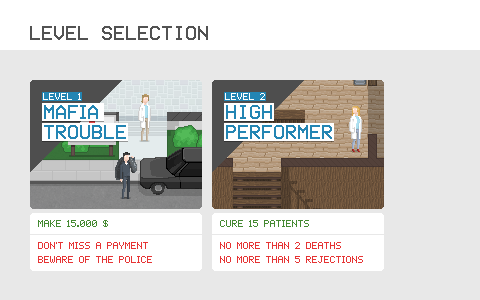
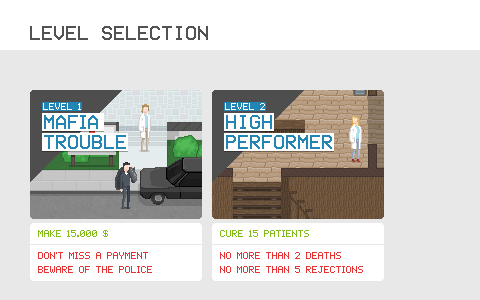
implements untested score system

Changed region(s): [[0.0625, 0.24, 0.8125, 0.93]]

diff --git a/src/stages/GameOverStage.js b/src/stages/GameOverStage.js
@@ -6,9 +6,9 @@ inherit(GameOverStage, Stage);
 
 GameOverStage.prototype.preload = function() {
   const endings = [
-    'modal_gameover_1', // 0: Mafia Ending
-    'modal_gameover_2', // 1: Police Ending
-    'modal_gameover_3', // 2: Money Ending
+    'gameover_1', // 0: Mafia Ending
+    'gameover_2', // 1: Police Ending
+    'gameover_3', // 2: Money Ending
   ];
 
   const backToMenuButtonFrames = {
@@ -29,19 +29,34 @@ GameOverStage.prototype.preload = function() {
     armedSpeed: 75
   }
 
+  this.scorePanelFrames = [1, 2, 3, 4, 5, 6, 7];
+  this.scorePanelFrame = 0;
+
+  this.scoreLabelFrames = [1, 1, 1, 2, 3, 4, 5, 6, 7, 8, 9, 10, 11, 12, 13];
+  this.scoreLabelFrame = 0;
+
   this.buttonImage = loader.loadAssetImage('gameover_buttons.png', 8, 2);
   this.hoverSound = loader.loadAssetAudio({src: 'sounds/key-clicking/key-clicking.mp3'});
   this.confirmSound = loader.loadAssetAudio({src: 'sounds/key-clicking/confirm.mp3'});
-  this.backgrounds = endings.map(ending => loader.loadAssetImage(ending + '.png'));
+  this.gameOverImages = endings.map(ending => loader.loadAssetImage(ending + '.png'));
+  this.modalBackground = loader.loadAssetImage('modal_gameover.png');
+  this.scorePanelImage = loader.loadAssetImage('scorepanel.png', 1, 8);
+  this.scoreLabelImage = loader.loadAssetImage('scorelabel.png', 1, 14);
   this.soundGameOver = loader.loadAssetAudio({src: 'sounds/outcomes/outcomes-gameover.mp3'});
   this.backToMenuButton = new Button(this.buttonImage, backToMenuButtonFrames, function() { stageManager.activeStage.transitionTo("levelSelect"); }, this.confirmSound, this.hoverSound);
   this.keepPlayingButton = new Button(this.buttonImage, keepPlayingButtonFrames, function() { stageManager.activeStage.transitionOut(800); }, this.confirmSound, this.hoverSound);
-
 }
 
 GameOverStage.prototype.prestart = function(payload) {
   this.gameOverNr = payload;
   this.soundGameOver.play();
+
+  // Set highscores
+  this.score = gameStage.calculateScore();
+  if (gameStage.isHighscore(gameStage.gameState.currentLevel.num, this.score)) {
+    this.isHighscore = true;
+    gameStage.writeHighScore(gameStage.gameState.currentLevel.num, this.score)
+  }
 }
 
 GameOverStage.prototype.render = function(ctx, timer) {
@@ -55,33 +70,44 @@ GameOverStage.prototype.render = function(ctx, timer) {
 
   // Image
   ctx.globalAlpha = 1;
-  const y = (h - this.backgrounds[this.gameOverNr].height) / 2 - ( (10 / p) - 10);
-  const x = (w - this.backgrounds[this.gameOverNr].width) / 2;
+  const y = (h - this.modalBackground.height) / 2 - ( (10 / p) - 10);
+  const x = (w - this.modalBackground.width) / 2;
 
   ctx.translate(x, y);
-  drawImageToScreen(ctx, this.backgrounds[this.gameOverNr], 0, 0, 0, 1, 1, 0, 0);
+  drawImageToScreen(ctx, this.modalBackground, 0, 0, 0, 1, 1, 0, 0);
+  drawImageToScreen(ctx, this.gameOverImages[this.gameOverNr], 5, 9, 0, 1, 1, 0, 0);
+
+  // Draw Score
+  if (this.isHighscore) {
+    this.scoreLabelFrame = getArrayFrame(timer.gameTime / 100, this.scoreLabelFrames);
+    this.scorePanelFrame = getArrayFrame(timer.gameTime / 150, this.scorePanelFrames);
+  }
+  drawFrame(ctx, this.scoreLabelImage, this.scoreLabelFrame, 19, 161, 0, 1, 1, 0, 0);
+  drawFrame(ctx, this.scorePanelImage, this.scorePanelFrame, 19, 174, 0, 1, 1, 0, 0);
+  bigFont.drawText(ctx, "" + this.score, 152, 182, "green", 1);
 
   // Draw Statistics
-  mainFont.drawText(ctx, gameStage.gameState.stats.patientCount, 135, 79, "darkgray", 1);
-  mainFont.drawText(ctx, gameStage.gameState.stats.patientsAccepted, 135, 90, "darkgray", 1);
-  mainFont.drawText(ctx, gameStage.gameState.stats.patientsRejected, 135, 101, "darkgray", 1);
-  mainFont.drawText(ctx, gameStage.gameState.stats.patientsDied, 135, 112, "darkgray", 1);
-  mainFont.drawText(ctx, gameStage.gameState.stats.patientsCured, 135, 123, "darkgray", 1);
+  mainFont.drawText(ctx, gameStage.gameState.stats.playTime, 135, 79, "darkgray", 1);
+  mainFont.drawText(ctx, gameStage.gameState.stats.patientCount, 135, 90, "green", 1);
+  mainFont.drawText(ctx, gameStage.gameState.stats.patientsAccepted, 135, 101, "green", 1);
+  mainFont.drawText(ctx, gameStage.gameState.stats.patientsRejected, 135, 112, "red", 1);
+  mainFont.drawText(ctx, gameStage.gameState.stats.patientsDied, 135, 123, "red", 1);
+  mainFont.drawText(ctx, gameStage.gameState.stats.patientsCured, 135, 134, "green", 1);
 
   mainFont.drawText(ctx, gameStage.gameState.stats.treatments, 310, 79, "darkgray", 1);
-  mainFont.drawText(ctx, gameStage.gameState.stats.treatmentsFailed, 310, 90, "darkgray", 1);
-  mainFont.drawText(ctx, gameStage.gameState.stats.treatmentsSucceeded, 310, 101, "darkgray", 1);
+  mainFont.drawText(ctx, gameStage.gameState.stats.treatmentsFailed, 310, 90, "red", 1);
+  mainFont.drawText(ctx, gameStage.gameState.stats.treatmentsSucceeded, 310, 101, "green", 1);
 
-  mainFont.drawText(ctx, gameStage.gameState.stats.diagnoses, 310, 121, "darkgray", 1);
-  mainFont.drawText(ctx, gameStage.gameState.stats.moneyEarned, 310, 132, "darkgray", 1);
-  mainFont.drawText(ctx, gameStage.gameState.stats.pingPongBounces, 310, 143, "darkgray", 1);
+  mainFont.drawText(ctx, gameStage.gameState.stats.diagnoses, 310, 121, "green", 1);
+  mainFont.drawText(ctx, gameStage.gameState.stats.moneyEarned, 310, 132, "green", 1);
+  mainFont.drawText(ctx, gameStage.gameState.stats.pingPongBounces, 310, 143, "green", 1);
 
   // Draw Buttons
   if (this.gameOverNr == 2) {
-    this.keepPlayingButton.paint(ctx, 57, 166, x, y);
-    this.backToMenuButton.paint(ctx, 185, 166, x, y);
+    this.keepPlayingButton.paint(ctx, 180, 190, x, y);
+    this.backToMenuButton.paint(ctx, 180, 166, x, y);
   } else {
-    this.backToMenuButton.paint(ctx, 121, 166, x, y);
+    this.backToMenuButton.paint(ctx, 180, 178, x, y);
   }
 
 };

diff --git a/src/stages/GameStage.js b/src/stages/GameStage.js
@@ -276,6 +276,48 @@ GameStage.prototype.getRandomElement = function(list) {
     return null;
 };
 
+GameStage.prototype.calculateScore = function() {
+  let score = 0;
+
+  score += (this.gameState.stats.patientsAccepted * 50);
+  console.log('accepted: +', this.gameState.stats.patientsAccepted * 50);
+  score += (this.gameState.stats.patientsCured * 250);
+  console.log('cured: +', this.gameState.stats.patientsCured * 250);
+  score += (this.gameState.stats.treatmentsSucceeded * 20);
+  console.log('treatment ok: +', this.gameState.stats.treatmentsSucceeded * 20);
+  score += (this.gameState.stats.pingPongBounces * 20);
+  console.log('pingpong ok: +', this.gameState.stats.pingPongBounces * 20);
+  score += (Math.floor(this.gameState.stats.moneyEarned / 1.5));
+  console.log('money: +', Math.floor(this.gameState.stats.moneyEarned / 1.5));
+  score += (this.gameState.stats.diagnoses * 25);
+  console.log('diagnoses: +', this.gameState.stats.diagnoses * 25);
+
+  score -= (this.gameState.stats.patientsRejected * 100);
+  console.log('rejected: -', this.gameState.stats.patientsRejected * 100);
+  score -= (this.gameState.stats.patientsDied * 500);
+  console.log('died: -', this.gameState.stats.patientsDied * 500);
+  score -= (this.gameState.stats.treatmentsFailed * 250);
+  console.log('treatment bad: -', this.gameState.stats.treatmentsFailed * 250);
+
+  const timeBonus = (600 - this.gameState.stats.totalSeconds) * 20;
+  score += (timeBonus > 0) ? timeBonus : 0;
+  console.log('timebonus: +', (timeBonus > 0) ? timeBonus : 0);
+
+  return score;
+}
+
+GameStage.prototype.isHighscore = function(levelNum, score) {
+  return this.getHighScore(levelNum) < score;
+}
+
+GameStage.prototype.getHighScore = function(levelNum) {
+  return localStorage.getItem(`score_level${levelNum}`) || 0
+}
+
+GameStage.prototype.writeHighScore = function(levelNum, highscore) {
+  return localStorage.setItem(`score_level${levelNum}`, highscore)
+}
+
 GameStage.prototype.onkey = function (event) {
     if (event && event.key && event.key.length == 1 && (event.key !== event.key.toLowerCase() || isSpecialCharacter(event.key))
         && !event.shiftKey && this.cashflowFeed.texts.filter(t => t.text.indexOf("Capslock") >= 0).length == 0) {
@@ -291,7 +333,7 @@ GameStage.prototype.onkey = function (event) {
     if (event.key === "f") {
         this.drawFPS = !this.drawFPS;
     }
-    if (window["cheats"]) {
+    // if (window["cheats"]) {
       if (event.key == "k") {
           // Kill all patients
           this.gameState.patients.forEach( p => p.die() );
@@ -301,9 +343,15 @@ GameStage.prototype.onkey = function (event) {
         // Diagnose all patients
         this.gameState.patients.forEach( p => p.diagnosed = true );
       } else if (event.key == "l") {
-          this.gameState.hospital.balance += 100;
+        this.gameState.hospital.balance += 100;
+      } else if (event.key == "y") {
+        this.gameState.setGameOver("gameover", 800, 0);
+      } else if (event.key == "x") {
+        this.gameState.setGameOver("gameover", 800, 1);
+      } else if (event.key == "c") {
+        this.gameState.setGameOver("gameover", 800, 2);
       }
-    }
+    // }
 };
 
 function isSpecialCharacter(char) {

diff --git a/src/stages/LevelSelectStage.js b/src/stages/LevelSelectStage.js
@@ -7,6 +7,7 @@ inherit(LevelSelectStage, Stage);
 LevelSelectStage.prototype.preload = function() {
   // Load images here
   this.bgImage = loader.loadAssetImage('level_select_stage.png');
+  this.scoreIcon = loader.loadAssetImage('levelscore.png', 2, 1);
   this.levelSelectButtonImage = loader.loadAssetImage('level_select_button.png', 4, 2);
   this.hoverSound = loader.loadAssetAudio({src: 'sounds/key-clicking/key-clicking.mp3'});
   this.startingSound = loader.loadAssetAudio({src: 'sounds/game-starting/game-starting.mp3'});
@@ -35,7 +36,6 @@ LevelSelectStage.prototype.startGame = function(level) {
 };
 
 LevelSelectStage.prototype.prestart = function() {
-
 }
 
 LevelSelectStage.prototype.render = function(ctx, timer) {
@@ -47,7 +47,16 @@ LevelSelectStage.prototype.render = function(ctx, timer) {
   // Draw background image
   drawImage(ctx, this.bgImage, 0, 0, 0, 1, 1, 0, 0);
 
+  // Draw Highscores
+
+  drawFrame(ctx, this.scoreIcon, gameStage.getHighScore(1) ? 0 : 1, 28, 66, 0, 1, 1, 0, 0);
+  mainFont.drawText(ctx, gameStage.getHighScore(1) ? gameStage.getHighScore(1) +' points' : 'no highscore', 54, 72, gameStage.getHighScore(1) ? 'green' : 'gray' , 0);
+
+  drawFrame(ctx, this.scoreIcon, gameStage.getHighScore(2) ? 0 : 1, 28+182, 66, 0, 1, 1, 0, 0);
+  mainFont.drawText(ctx, gameStage.getHighScore(2) ? gameStage.getHighScore(2) +' points' : 'no highscore', 54+182, 72, gameStage.getHighScore(2) ? 'green' : 'gray' , 0);
+
+
   // Draw Menu Buttons
-  this.level1Button.paint(ctx, 26, 76);
-  this.level2Button.paint(ctx, 208, 76);
+  this.level1Button.paint(ctx, 26, 86);
+  this.level2Button.paint(ctx, 208, 86);
 };

diff --git a/src/game/Hospital.js b/src/game/Hospital.js
@@ -87,9 +87,11 @@ Hospital.prototype.draw = function(ctx) {
 
     // Time
     let seconds = Math.floor((gameStage.time - gameStage.gameState.startTime) / 1000);
+    gameStage.gameState.stats.totalSeconds = seconds;
     const minutes = Math.floor(seconds / 60);
     seconds = seconds % 60;
     const time = minutes + ":" + (seconds < 10 ? "0" : "") + seconds;
+    gameStage.gameState.stats.playTime = time;
     drawFrame(ctx, Hospital.hudFrames, 0, 3, y, 0, 1, 1, 0, 0);
     mainFont.drawText(ctx, time, 55, y + 6, "darkgray", 1);
 

diff --git a/src/game/GameState.js b/src/game/GameState.js
@@ -15,6 +15,8 @@ function GameState(currentLevel) {
     this.danegeld = this.currentLevel.params.mafia.startingDanegeld;
     this.gameOver = false;
     this.stats = {
+        totalSeconds: 0,
+        playTime: '0:00',
         patientCount: 0,
         patientsAccepted: 0,
         patientsRejected: 0,
